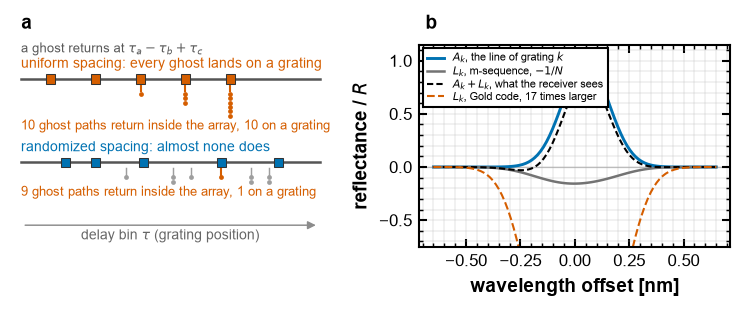
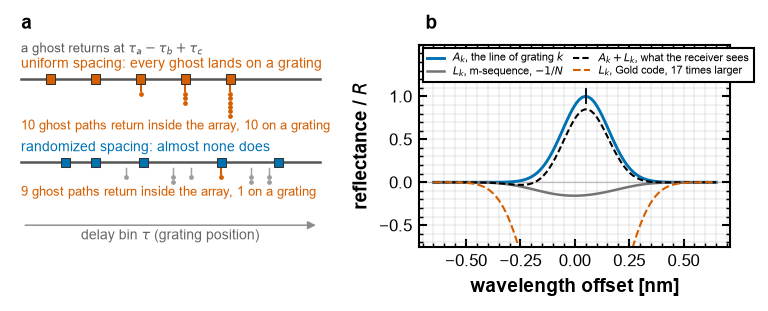
s16 (b): legend above the curves in two columns

diff --git a/python_selfcal_cdm/s16_principle.py b/python_selfcal_cdm/s16_principle.py
@@ -220,12 +220,12 @@ ax[1].plot(xnm, summ / 0.05, color='#000000', lw=1.0, ls=(0, (3, 1.5)), label='$
 ax[1].plot(xnm, (17.0 * leak) / 0.05, color='#D55E00', lw=1.0, ls='--', label='$L_k$, Gold code, 17 times larger')
 ax[1].plot([c_true / 1000.0, c_true / 1000.0], [0.92, 1.08], color='#0072B2', lw=0.8)
 ax[1].plot([c_meas / 1000.0, c_meas / 1000.0], [0.92, 1.08], color='#000000', lw=0.8)
-ax[1].set_ylim(-0.75, 1.15)
+ax[1].set_ylim(-0.75, 1.6)
 ax[1].set_yticks([-0.5, 0, 0.5, 1.0])
 ax[1].set_xlabel('wavelength offset [nm]'); ax[1].set_ylabel('reflectance / $R$')
 FS.letter(ax[1], 'b')
 ax[1].grid(False, which='both', alpha=0.2)
-ax[1].legend(fontsize=5.2, loc='upper left', ncol=1, frameon=True,
+ax[1].legend(fontsize=5.2, loc='upper left', ncol=2, frameon=True, columnspacing=0.8,
              handlelength=1.6, labelspacing=0.2, borderaxespad=0.3)
 
 fig2.subplots_adjust(left=0.055, right=0.99, top=0.87, bottom=0.19,
